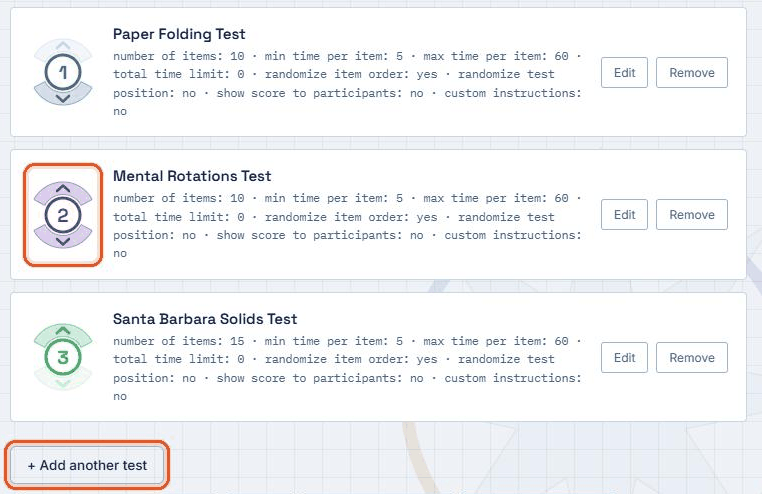
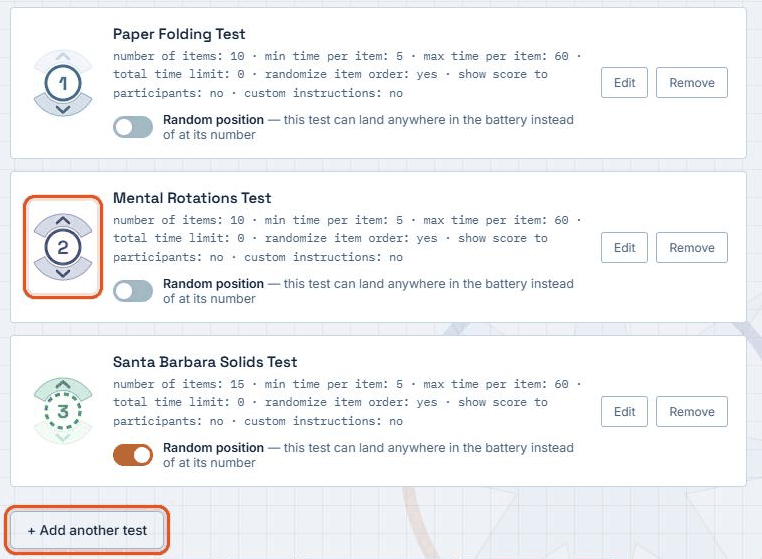
Battery page: Random position switch on each test card (out of the test settings)
The ring around the number turns dashed for a test with a random position.
Guide text and screenshots updated.

diff --git a/index.html b/index.html
@@ -880,6 +880,10 @@
     margin-bottom:2px;
   }
   .order-dial{display:block; overflow:visible;}
+  .order-ring.random{stroke-dasharray:5 4;}
+  .random-position{display:flex; align-items:center; gap:10px; margin-top:10px; font-size:12.5px; color:var(--ink-soft);}
+  .random-position b{color:var(--ink); font-weight:600;}
+  .random-position .toggle{flex-shrink:0;}
   .order-ring{fill:#fff; stroke:var(--order-colour); stroke-width:3;}
   .order-number{font-family:'Space Grotesk', sans-serif; font-weight:700; font-size:19px; fill:var(--order-colour); text-anchor:middle; dominant-baseline:central;}
   .order-band{fill:color-mix(in srgb, var(--order-colour) 22%, #fff); stroke:color-mix(in srgb, var(--order-colour) 55%, #fff); stroke-width:1; transition:fill .12s ease;}
@@ -1960,9 +1964,9 @@
         <li>Add your first test as above: <b>Catalog</b> &rarr; <b>Configure &amp; add</b> &rarr; <b>Add to battery</b>.</li>
         <li>To add the next test, click <b>+ Add another test</b> on the Battery page (or <b>Catalog</b> at the top) and repeat. Each test has its own settings.</li>
         <li>Set the order on the <b>Battery</b> page: drag a test up or down the list, or click the arrows above and below its number. Participants take the tests from top to bottom.
-          <figure class="guide-shot"><img src="guide/order.png" alt="The list of tests on the Battery page, with the order arrows around a test number outlined, and the Add another test button outlined" width="762" height="494" loading="lazy"></figure></li>
-        <li>To put a test in a random position for each participant, open its settings and turn on <b>Randomize test position</b>. Items within each test are shown in random order unless you turn off <b>Randomize item order</b>.
-          <figure class="guide-shot"><img src="guide/randomize-position.png" alt="The Randomize test position switch, outlined" width="700" height="170" loading="lazy"></figure></li>
+          <figure class="guide-shot"><img src="guide/order.png" alt="The list of tests on the Battery page, with the order arrows around a test number outlined, and the Add another test button outlined" width="762" height="559" loading="lazy"></figure></li>
+        <li>To put a test in a random position for each participant, switch on <b>Random position</b> on its card on the Battery page; its number ring turns dashed. Items within each test are shown in random order unless you turn off <b>Randomize item order</b> in the test's settings.
+          <figure class="guide-shot"><img src="guide/randomize-position.png" alt="A test card on the Battery page, with the Random position switch outlined" width="750" height="164" loading="lazy"></figure></li>
         <li>If you want, switch on one or more <b>Attention checks</b> on the Battery page. Use <b>&#9881; Settings</b> to change the message shown between tests.
           <figure class="guide-shot"><img src="guide/attention-settings.png" alt="The Settings button and an attention check switch, outlined" width="762" height="362" loading="lazy"></figure></li>
         <li>Click <b>Save</b> to keep a draft. Then click <b>Generate pilot link</b> to try it, or <b>Generate final link</b> to collect data, and send the link to participants.</li>
@@ -2757,7 +2761,6 @@ function standardFields(testId, defaultCount){
     { key: 'timeMax', label: 'Max time per item', hint: `seconds — recommended default = ${timeMaxDefault}`, type: 'number', min: 5, max: 300, step: 1, default: timeMaxDefault },
     { key: 'totalTimeLimit', label: 'Total time limit', hint: `seconds, 0 = no limit — recommended default = ${totalTimeDefault}`, type: 'number', min: 0, max: 3600, step: 30, default: totalTimeDefault },
     { key: 'randomizeItems', label: 'Randomize item order', hint: '', type: 'toggle', default: true },
-    { key: 'randomizeOrder', label: 'Randomize test position', hint: 'let this test land anywhere in the battery, instead of staying at its set position in the battery', type: 'toggle', default: false },
     { key: 'includeScore', label: 'Show score to participants', hint: "Turning this on will reveal the number correct and percentile rank of the participant's score at the end of this test.", type: 'toggle', default: false },
   ];
   if (DEFAULT_INSTRUCTIONS[testId]){
@@ -3918,10 +3921,17 @@ function renderBatteryList(){
     return `
       <div class="battery-item" draggable="true" ondragstart="batteryDragStart(event, ${i})" ondragover="batteryDragOver(event, ${i})"
            ondragleave="batteryDragLeave(event)" ondrop="batteryDrop(event, ${i})" ondragend="batteryDragEnd()">
-        <div class="battery-order">${orderDial(i, battery.length)}</div>
+        <div class="battery-order">${orderDial(i, battery.length, !!item.params.randomizeOrder)}</div>
         <div>
           <h4>${escapeHtml(test.name)}</h4>
           <div class="param-summary">${paramSummary(test, item.params)}</div>
+          <div class="random-position">
+            <label class="toggle">
+              <input type="checkbox" ${item.params.randomizeOrder ? 'checked' : ''} onchange="setBatteryRandomPosition(${i}, this.checked)" aria-label="Random position">
+              <span class="slider"></span>
+            </label>
+            <span><b>Random position</b> &mdash; this test can land anywhere in the battery instead of at its number</span>
+          </div>
         </div>
         <div class="battery-item-actions">
           <button onclick="editBatteryItem(${i})">Edit</button>
@@ -3936,7 +3946,7 @@ function renderBatteryList(){
 // down arrows hugging the ring above and below it. Each position takes one
 // of the logo's ring colours in turn.
 const ORDER_COLOURS = ['var(--compass-blue)', 'var(--compass-purple)', 'var(--compass-green)', 'var(--compass-red)', 'var(--compass-gold)'];
-function orderDial(i, count){
+function orderDial(i, count, random = false){
   const arrow = (dir, d, chevron, label, enabled) => `
     <g class="order-arrow${enabled ? '' : ' off'}" ${enabled
       ? `role="button" tabindex="0" aria-label="${label}" onclick="moveBatteryItem(${i}, ${dir})" onkeydown="if(event.key==='Enter'||event.key===' '){event.preventDefault();moveBatteryItem(${i}, ${dir});}"`
@@ -3947,10 +3957,17 @@ function orderDial(i, count){
   return `
     <svg class="order-dial" viewBox="0 0 68 92" width="68" height="92" style="--order-colour:${ORDER_COLOURS[i % ORDER_COLOURS.length]}">
       ${arrow(-1, 'M4.86,30.51 A33,33 0 0 1 63.14,30.51 L52.10,36.38 A20.5,20.5 0 0 0 15.90,36.38 Z', 'M28,22 L34,16.5 L40,22', 'Move up', i > 0)}
-      <circle class="order-ring" cx="34" cy="46" r="17"/>
+      <circle class="order-ring${random ? ' random' : ''}" cx="34" cy="46" r="17"/>
       <text class="order-number" x="34" y="46">${i + 1}</text>
       ${arrow(1, 'M63.14,61.49 A33,33 0 0 1 4.86,61.49 L15.90,55.62 A20.5,20.5 0 0 0 52.10,55.62 Z', 'M28,70 L34,75.5 L40,70', 'Move down', i < count - 1)}
     </svg>`;
+}
+
+// Whether a test keeps its numbered place or can land anywhere in the
+// battery (its ring is drawn dashed when it can).
+function setBatteryRandomPosition(index, on){
+  battery[index].params.randomizeOrder = on;
+  renderBatteryList();
 }
 
 function moveBatteryItem(index, direction){
